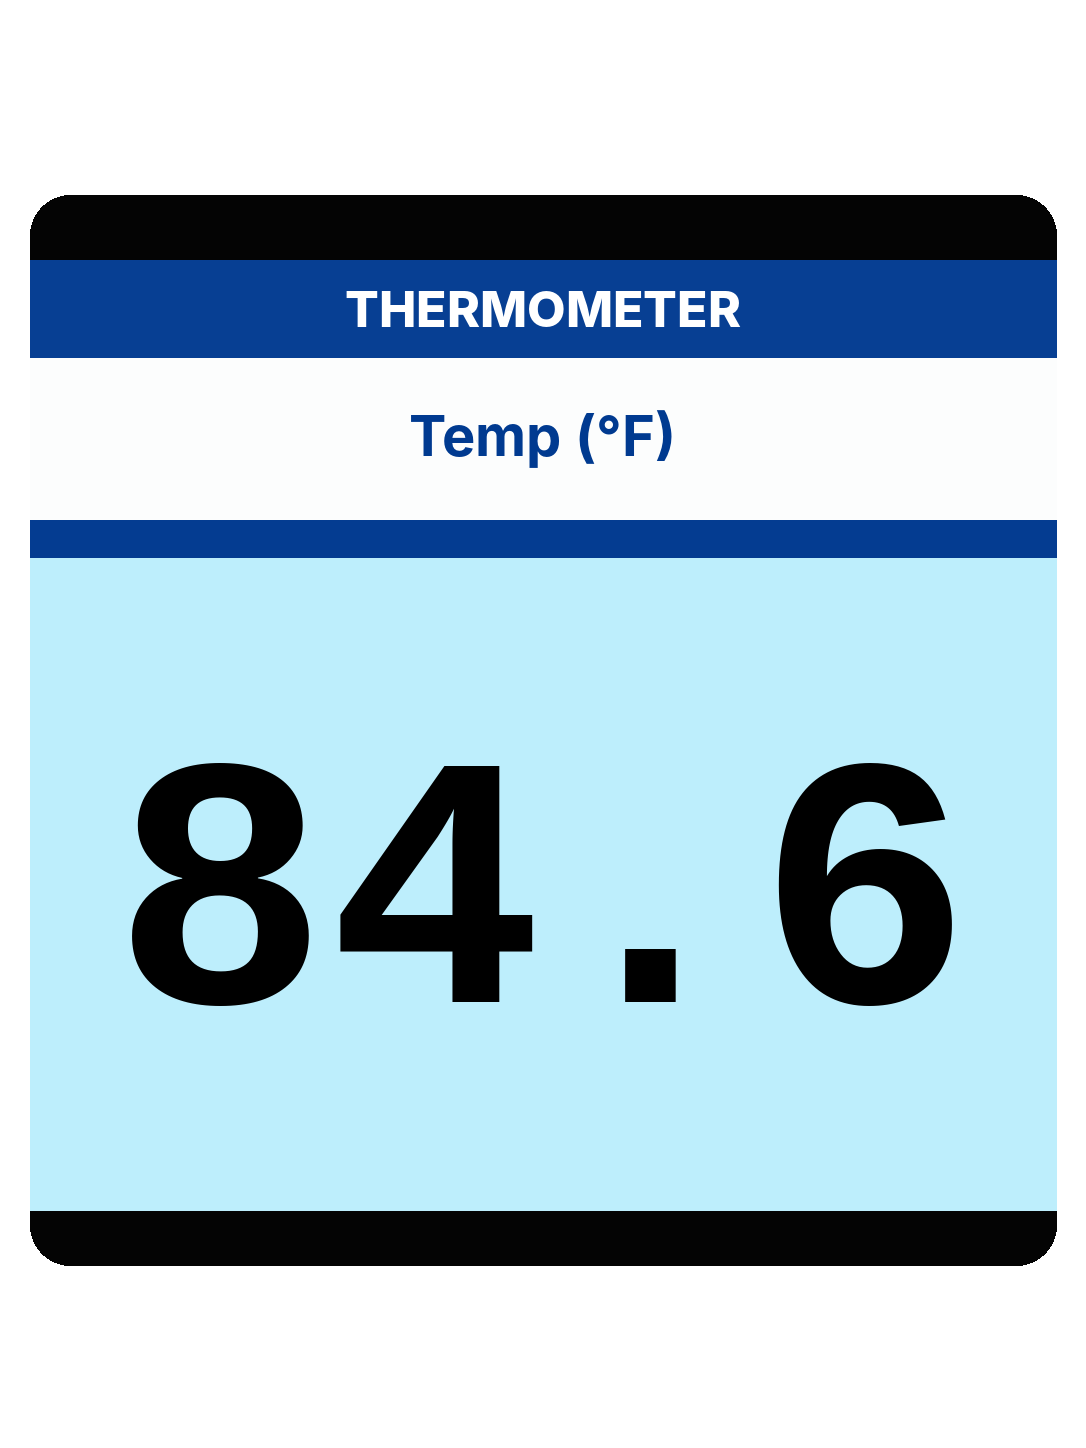
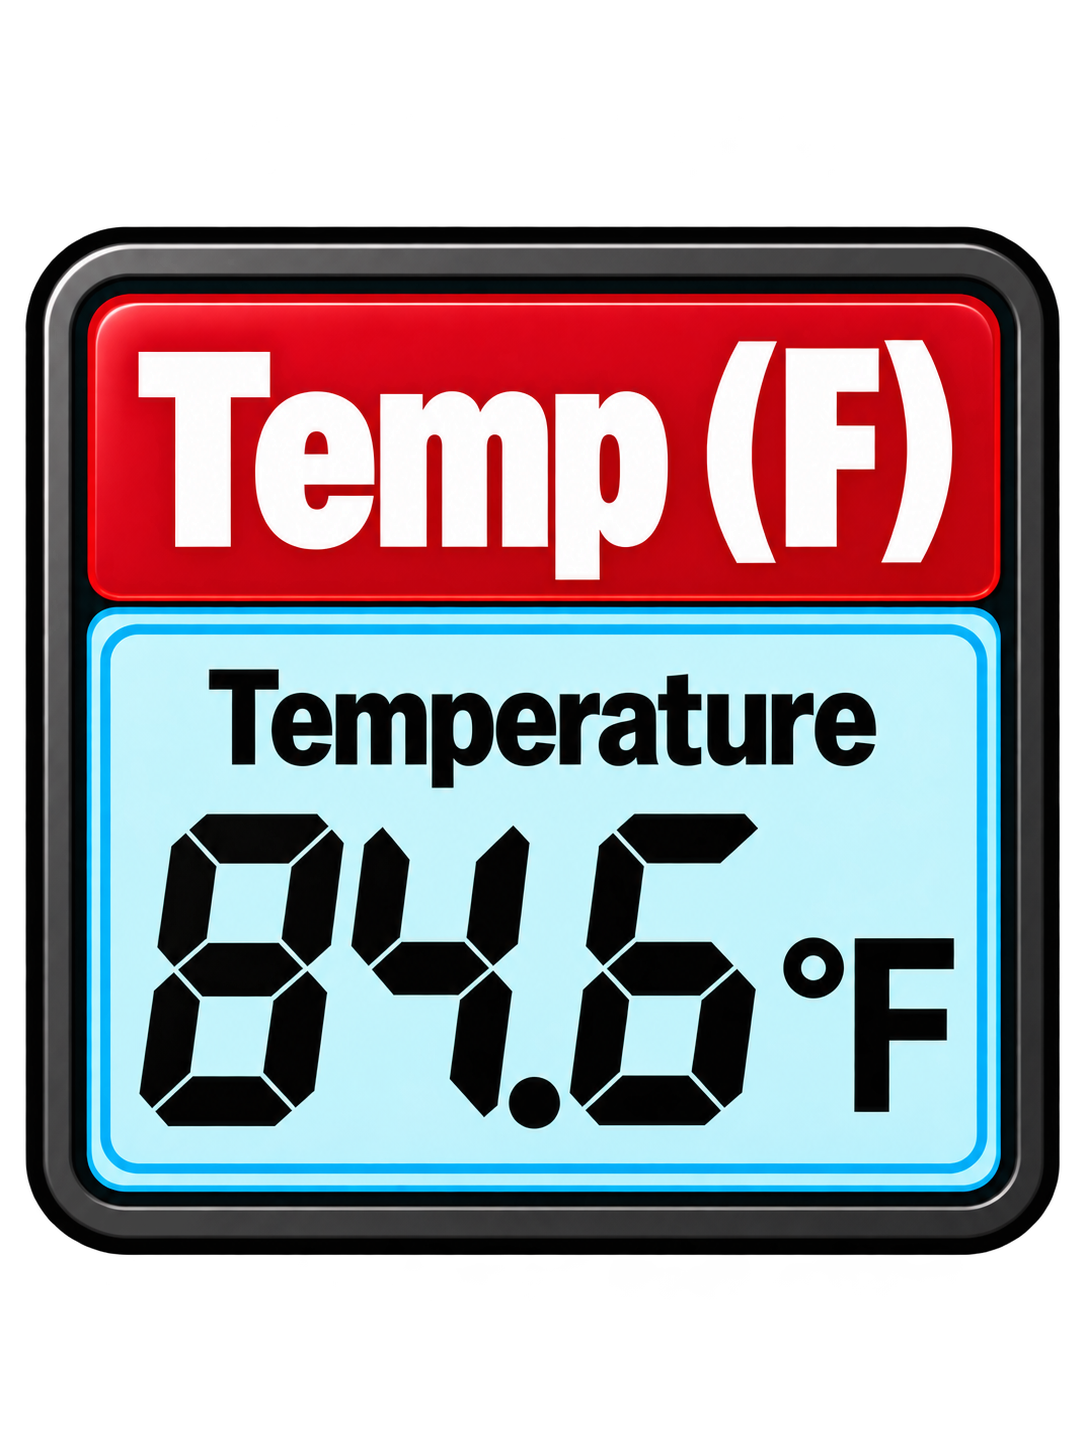
Replace thermometer display image; fix mobile image clipping
- Replace thermometer-display.png with user-provided device photo
- Fix top/bottom clipping of images on mobile: change overflow:hidden
  to overflow:visible on .ls5-meas-front so negative-margin photo area
  extends to card edges without being clipped by the front face;
  the card's own overflow:hidden handles edge clipping

Claude-Session: https://claude.ai/code/session_01Uwiqc2DEthViKi1peRMmsg

diff --git a/work-rest-cycles/measurement.html b/work-rest-cycles/measurement.html
@@ -114,7 +114,7 @@ body { background: #F6F3EC !important; }
   flex-direction: column;
   padding: clamp(8px, 1.5vh, 16px) clamp(10px, 1.8vw, 18px);
   gap: clamp(4px, 0.8vh, 10px);
-  overflow: hidden;
+  overflow: visible;
   min-height: 0;
   /* button reset — element is now <button> for Safari iOS compatibility */
   -webkit-appearance: none;
